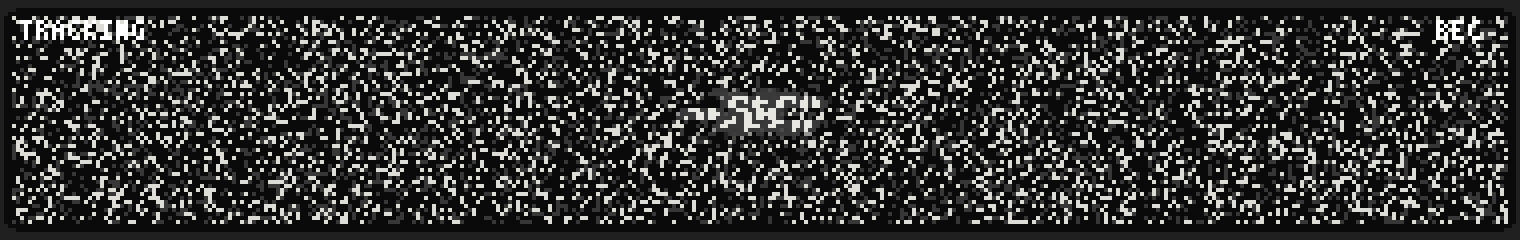
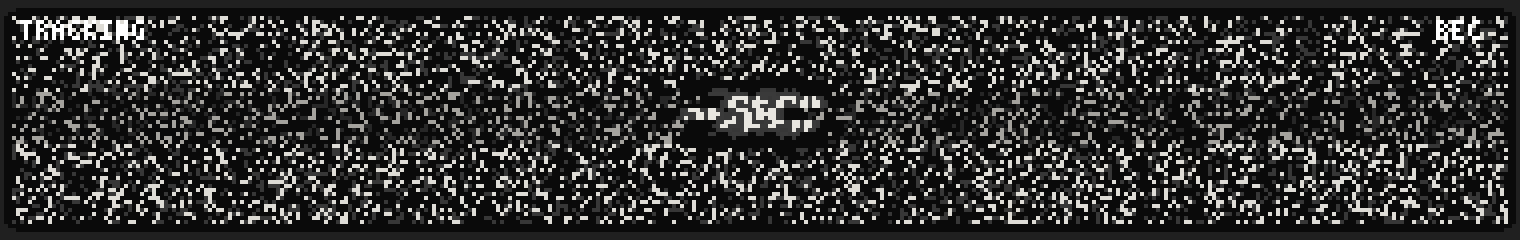
sesh: slam keeps the word legible; new colourways covered at narrow sizes; docs count 175
Review fixes for the branch.

- The slam's mid-decay frame read as a smudge - same-colour static crowded the
  letterforms. The knock-back band behind the word is now a wide (tw+14 x gh+8)
  FULLY OPAQUE panel plate rather than tw+6 at alpha 0.6, and the static across
  the word's own rows drops to alpha 0.45 (SLAM_WORD_ROW_ALPHA) while the 62%
  density cap holds elsewhere. The word now reads as SESH on a clean band amid
  the static on every slam frame. New guard the_slam_keeps_the_word_legible
  asserts the word's central band keeps >=70% of a word-alone render's lit
  pixels at mid-decay.
- fits_the_narrow_panel_and_flourish_does_not_panic now covers sesh-graveyard
  and sesh-nightvision.
- Renamed the_five_colourways_are_visibly_different ->
  the_seven_colourways_are_visibly_different.
- docs/themes.md said 173 colourways in two places -> 175 (README/CHANGELOG
  already 175).
- docs/review/sesh-tape-flourish-decay.png replaced with the new legible
  mid-decay slam frame.

Changed region(s): [[0.0, 0.3208, 0.9895, 0.6125], [0.9895, 0.4375, 1.0, 0.4667], [0.0, 0.4667, 0.0309, 0.4958]]

diff --git a/src/render/sesh.rs b/src/render/sesh.rs
@@ -91,6 +91,9 @@ const SLAM_TEAR_MAX: i32 = 6;
 /// Peak static density of the slam, in percent of interior pixels. Below 100 so the word (drawn over
 /// it, on a knocked-back band) stays legible instead of dissolving into same-colour noise.
 const SLAM_STATIC_MAX_PCT: u64 = 62;
+/// Static alpha across the word's own rows during the slam - low, so the word reads on every frame
+/// while the field stays dense elsewhere.
+const SLAM_WORD_ROW_ALPHA: f32 = 0.45;
 /// The stamp only draws when the panel is at least this tall.
 const STAMP_MIN_H: i32 = 48;
 /// A strong onset needs the low bands over this - also the bass level at which `sesh-word` pulses.
@@ -841,37 +844,49 @@ impl Sesh {
         // An opaque base, so every pixel copied back keeps the panel opaque.
         scr.fill_rect(ix0, iy0, iw, ih, panel);
 
+        // Word metrics first (no RNG), so the static can be dimmed across the word's rows.
+        let large = !st.corner_caption && h >= st.word_large_at;
+        let size = if large { GothicSize::Large } else { GothicSize::Small };
+        let gh = if large { 13 } else { 9 };
+        let word_y = iy0 + (ih - gh) / 2;
+        let (band_lo, band_hi) = ((word_y - 2).max(iy0), (word_y + gh + 2).min(iy1));
+
         // Static field whose DENSITY decays with the envelope: at the peak the field is dense, and as
-        // the slam decays it thins out rather than merely dimming. Capped below full so the word,
-        // painted over it and on a knocked-back band, stays legible through the slam.
+        // the slam decays it thins out rather than merely dimming. Capped below full everywhere, and
+        // dropped to a low alpha across the WORD'S ROWS so the word reads at every slam frame.
         let density = (env * SLAM_STATIC_MAX_PCT as f32).clamp(0.0, SLAM_STATIC_MAX_PCT as f32) as u64;
-        let noise_a = Rgba::from_hex(&t.lit, 0.9);
-        let noise_b = Rgba::from_hex(&t.edge, 0.9);
+        let full_a = Rgba::from_hex(&t.lit, 0.9);
+        let full_b = Rgba::from_hex(&t.edge, 0.9);
+        let dim_a = Rgba::from_hex(&t.lit, SLAM_WORD_ROW_ALPHA);
+        let dim_b = Rgba::from_hex(&t.edge, SLAM_WORD_ROW_ALPHA);
         for y in iy0..iy1 {
+            let dim = y >= band_lo && y < band_hi;
             for x in ix0..ix1 {
                 let r = self.next_rng();
                 if r % 100 < density {
-                    let col = if r & 0x100 == 0 { noise_a } else { noise_b };
+                    let hi = r & 0x100 == 0;
+                    let col = match (dim, hi) {
+                        (true, true) => dim_a,
+                        (true, false) => dim_b,
+                        (false, true) => full_a,
+                        (false, false) => full_b,
+                    };
                     scr.fill_rect(x, y, 1, 1, col);
                 }
             }
         }
 
-        // The word, centred, jittering ±1px IN PLACE, with a thickened (2px) outline.
-        let large = !st.corner_caption && h >= st.word_large_at;
-        let size = if large { GothicSize::Large } else { GothicSize::Small };
-        let gh = if large { 13 } else { 9 };
+        // The word, centred, jittering ±1px IN PLACE, with a thickened (2px) outline, on a WIDE fully
+        // opaque panel plate so it punches cleanly through the static on every frame (the plate is
+        // panel-coloured, so on a dark colourway it just reads as static parting around the word).
         let (jx, jy) = ((self.next_rng() % 3) as i32 - 1, (self.next_rng() % 3) as i32 - 1);
         let word = gothic::truncate_to_width(self.current_word(), size, iw - 8);
-        let word_y = iy0 + (ih - gh) / 2;
         if !word.is_empty() {
             let tw = gothic::text_width(word, size);
             let x = ix0 + (iw - tw) / 2 + jx;
             let y = word_y + jy;
-            // Knock the static back to half behind the word so it punches through the field rather
-            // than dissolving into same-colour noise.
-            let kb = Rgba::from_hex(&t.panel, 0.6);
-            scr.fill_rect((x - 3).max(ix0), (y - 2).max(iy0), (tw + 6).min(iw), (gh + 4).min(ih), kb);
+            let kb = Rgba::from_hex(&t.panel, 1.0);
+            scr.fill_rect((x - 7).max(ix0), (y - 4).max(iy0), (tw + 14).min(iw), (gh + 8).min(ih), kb);
             let outline = Rgba::from_hex(&t.edge, t.edge_alpha);
             for (dx, dy) in [(-2, 0), (2, 0), (0, -2), (0, 2)] {
                 gothic::draw(&mut scr, x + dx, y + dy, word, size, outline, None);
@@ -1071,7 +1086,15 @@ mod tests {
 
     #[test]
     fn fits_the_narrow_panel_and_flourish_does_not_panic() {
-        for id in ["sesh-tape", "sesh-word", "sesh-vhs", "sesh-red", "sesh-bleached"] {
+        for id in [
+            "sesh-tape",
+            "sesh-word",
+            "sesh-vhs",
+            "sesh-red",
+            "sesh-bleached",
+            "sesh-graveyard",
+            "sesh-nightvision",
+        ] {
             let t = theme(id);
             let mut fam = Sesh::default();
             let _ = frames(&mut fam, &t, 190, 48, 0.5, 5);
@@ -1184,7 +1207,7 @@ mod tests {
     /// is the guard that would have caught the v0.3.0 complaint that "all the sesh themes look the
     /// same except the red one".
     #[test]
-    fn the_five_colourways_are_visibly_different() {
+    fn the_seven_colourways_are_visibly_different() {
         let ids = [
             "sesh-tape",
             "sesh-word",
@@ -1229,6 +1252,69 @@ mod tests {
         assert!(
             too_similar.is_empty(),
             "these colourway pairs differ in <15% of interior pixels: {too_similar:?}"
+        );
+    }
+
+    /// The slam keeps the word legible on EVERY frame. At a mid-decay dropout frame the word's fill
+    /// pixels in its central band are still overwhelmingly `lit`-coloured, rather than buried by
+    /// static - measured against a tape-suppressed render of the word alone. This is the guard for the
+    /// reviewer's "a stranger reads SESH on every slam frame".
+    #[test]
+    fn the_slam_keeps_the_word_legible() {
+        let t = theme("sesh-word");
+        let (w, h) = (380i32, 60i32);
+        let lit = Rgba::from_hex(&t.lit, 1.0);
+        let near_lit = |p: Rgba| {
+            let d = (p.r as i32 - lit.r as i32).abs()
+                + (p.g as i32 - lit.g as i32).abs()
+                + (p.b as i32 - lit.b as i32).abs();
+            p.a > 8 && d < 40
+        };
+        // sesh-word centres a Large (gh=13) word at h=60.
+        let (gh, iy0, iy1) = (13, 4, h - 4);
+        let word_y = iy0 + ((iy1 - iy0) - gh) / 2;
+        let (blo, bhi) = ((word_y - 3).max(iy0), (word_y + gh + 3).min(iy1));
+        let count_band = |c: &Canvas| {
+            let mut n = 0;
+            for y in blo..bhi {
+                for x in 3..w - 3 {
+                    if near_lit(c.get(x, y)) {
+                        n += 1;
+                    }
+                }
+            }
+            n
+        };
+        // Reference: the word alone (tape suppressed, no dropout), centred and clean.
+        let refc = {
+            let mut fam = Sesh::default();
+            fam.suppress_tape_for_test();
+            frames(&mut fam, &t, w, h, 0.3, 3)
+        };
+        let ref_lit = count_band(&refc);
+        assert!(ref_lit > 20, "reference word drew too little to test: {ref_lit}");
+
+        // A mid-decay slam frame: settle, force, take the blank, then advance into the decay.
+        let mut fam = Sesh::default();
+        let _ = frames(&mut fam, &t, w, h, 0.5, 5);
+        fam.flourish.force_next();
+        let mut c = Canvas::new(w, h);
+        let mut d = FrameData::default();
+        for (i, v) in d.levels.iter_mut().enumerate() {
+            *v = 0.3 * (1.0 - i as f32 / 96.0);
+        }
+        d.peaks = d.levels;
+        d.rms_l = 0.3;
+        d.rms_r = 0.3;
+        d.dt_ms = 16.7;
+        fam.draw(&mut c, &t, &d); // the forced blank frame
+        for _ in 0..7 {
+            fam.draw(&mut c, &t, &d); // into the mid-decay of the ~250ms slam
+        }
+        let slam_lit = count_band(&c);
+        assert!(
+            slam_lit as f32 >= 0.70 * ref_lit as f32,
+            "the slam kept only {slam_lit}/{ref_lit} of the word's lit pixels (<70%) - static buried it"
         );
     }
 

diff --git a/docs/themes.md b/docs/themes.md
@@ -1,6 +1,6 @@
 # Themes
 
-**173 colourways across 27 families.** A *family* is a renderer with fixed geometry — code. A
+**175 colourways across 27 families.** A *family* is a renderer with fixed geometry — code. A
 *colourway* is data. That split is the extensibility seam: new colourways need no rebuild.
 
 ## All 27 families
@@ -180,7 +180,7 @@ Drop a `.toml` file (any filename — the `id` inside is what matters) into
 watched, so saving the file updates the live overlay without a restart — edit a colour, hit
 save, and watch the taskbar change.
 
-A file whose `id` matches a built-in **replaces** it; any other `id` is added alongside the 173
+A file whose `id` matches a built-in **replaces** it; any other `id` is added alongside the 175
 built-ins, which are always embedded in the exe regardless of whether that folder exists.
 
 Failure modes are all deliberately soft, because these files are hand-authored:
